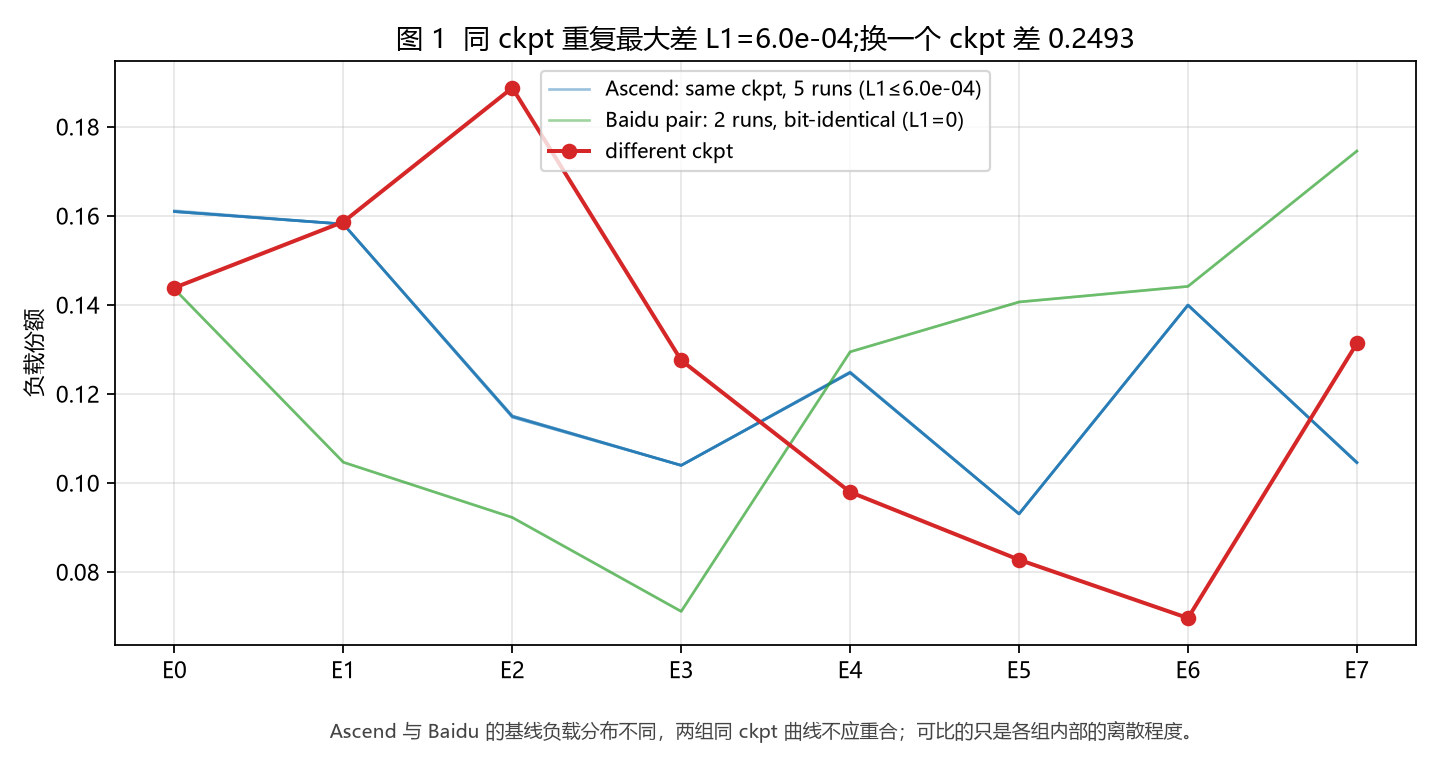
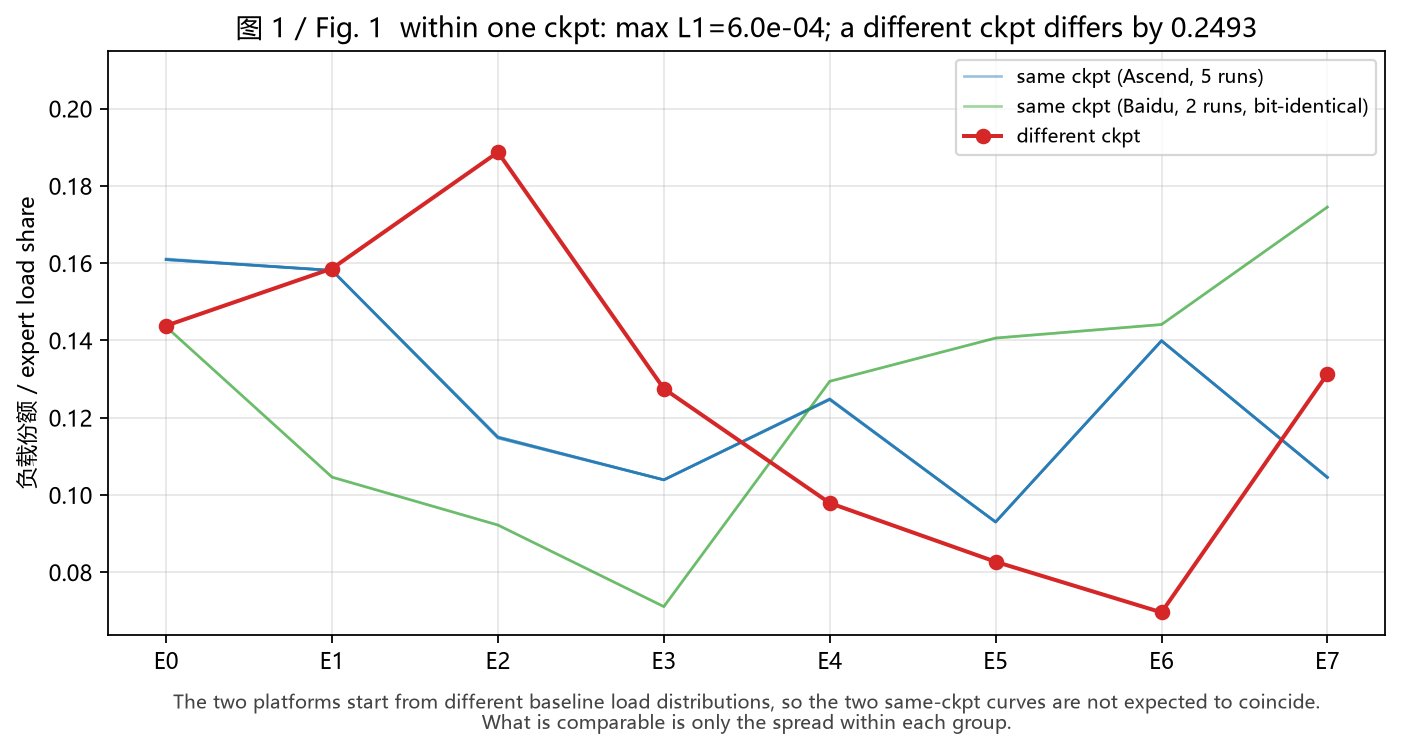
figures: unify legend placement, bilingual titles and axis labels
- legends: unified inside the axes, upper right, across all three figures.
  fig1's legend previously sat mid-axes and covered E1-E5, which is exactly the
  region where the same-ckpt runs are supposed to overlap. Its y-limit is raised
  to 0.215 so the legend no longer covers the E7 point (0.175).
- titles and axis labels are now bilingual (图 X / Fig. X, 负载份额 / expert load
  share); fig1's footnote is in English.
- fig1 legend text shortened, since the numbers are already in the title:
  same ckpt (Ascend, 5 runs) / same ckpt (Baidu, 2 runs, bit-identical) /
  different ckpt
- MANIFEST rebuilt (118 content hashes)

Figures are byte-reproducible from data_for_figures.json. No data or code logic
changed; make_figures.py only changes layout.

diff --git a/make_figures.py b/make_figures.py
@@ -35,19 +35,19 @@ def fig_rotation(data, outdir, plt):
                 label=k, linewidth=1.6)
     ax.set_xticks(x)
     ax.set_xticklabels(["E%d" % i for i in x])
-    ax.set_ylabel("负载份额")
+    ax.set_ylabel("负载份额 / expert load share")
     # 标题数字一律现算
     if d.get("step0") and d.get("s1"):
         dc = (_cv(d["s1"]) - _cv(d["step0"])) / _cv(d["step0"]) * 100
         dl = _l1(d["step0"], d["s1"])
-        ax.set_title("图 3  前 400 步：cv %+.0f%%，但负载分布改变 L1=%.2f" % (dc, dl))
+        ax.set_title("图 3 / Fig. 3  first 400 steps: cv %+.0f%%, but the load distribution moved by L1=%.2f" % (dc, dl))
     else:
-        ax.set_title("图 3  负载分布随训练改变")
+        ax.set_title("图 3 / Fig. 3  The load distribution changes over training")
     ax.legend(fontsize=9)
     ax.grid(alpha=0.3)
     fig.tight_layout()
     p = os.path.join(outdir, "fig3_rotation.png")
-    fig.savefig(p, dpi=160)
+    fig.savefig(p, dpi=160, bbox_inches="tight")
     plt.close(fig)
     return p
 
@@ -63,22 +63,22 @@ def fig_noise(data, outdir, plt):
             l1_same = max(l1_same, _l1(runs[i], runs[j]))
     l1_other = ""
     if d.get("other_ckpt") and runs:
-        l1_other = ";换一个 ckpt 差 %.4f" % _l1(runs[0], d["other_ckpt"])
+        l1_other = "; a different ckpt differs by %.4f" % _l1(runs[0], d["other_ckpt"])
     fig, ax = plt.subplots(figsize=(9, 4.8))
     x = list(range(8))
     for i, arr in enumerate(d.get("same_ckpt_runs", [])):
         ax.plot(x, arr, color="#1f77b4", alpha=0.45, linewidth=1.2,
-                label="Ascend: same ckpt, 5 runs (L1≤%.1e)" % l1_same if i == 0 else None)
+                label="same ckpt (Ascend, 5 runs)" if i == 0 else None)
     if d.get("baidu_same"):
         for i, arr in enumerate(d["baidu_same"]):
             ax.plot(x, arr, color="#2ca02c", alpha=0.45, linewidth=1.2,
-                    label="Baidu pair: 2 runs, bit-identical (L1=0)" if i == 0 else None)
+                    label="same ckpt (Baidu, 2 runs, bit-identical)" if i == 0 else None)
     if d.get("other_ckpt"):
         ax.plot(x, d["other_ckpt"], color="#d62728", marker="o", linewidth=1.8,
                 label="different ckpt")
     ax.set_xticks(x)
     ax.set_xticklabels(["E%d" % i for i in x])
-    ax.set_ylabel("负载份额")
+    ax.set_ylabel("负载份额 / expert load share")
     # 标题里的数字一律从数据现算，不硬编码
     runs = d.get("same_ckpt_runs", [])
     l1_same = 0.0
@@ -87,17 +87,20 @@ def fig_noise(data, outdir, plt):
             l1_same = max(l1_same, _l1(runs[i], runs[j]))
     l1_other = ""
     if d.get("other_ckpt") and runs:
-        l1_other = ";换一个 ckpt 差 %.4f" % _l1(runs[0], d["other_ckpt"])
-    ax.set_title("图 1  同 ckpt 重复最大差 L1=%.1e%s" % (l1_same, l1_other))
-    ax.legend(fontsize=9)
+        l1_other = "; a different ckpt differs by %.4f" % _l1(runs[0], d["other_ckpt"])
+    ax.set_title("图 1 / Fig. 1  within one ckpt: max L1=%.1e%s" % (l1_same, l1_other))
+    # 与 fig2 / fig3 统一：坐标轴内右上角
+    # 但 fig1 的 y 上限要留白，否则图例会压住 E7 那个点（绿线末端 0.175）
+    ax.set_ylim(top=0.215)
+    ax.legend(fontsize=8.5, loc="upper right")
     # 两平台基线不同，绿蓝两组本就不该重合 —— 必须写明，否则会被误读
-    ax.text(0.5, -0.16, "Ascend 与 Baidu 的基线负载分布不同，两组同 ckpt 曲线不应重合；"
-                        "可比的只是各组内部的离散程度。",
+    ax.text(0.5, -0.16, "The two platforms start from different baseline load distributions, so the two same-ckpt "
+                        "curves are not expected to coincide.\nWhat is comparable is only the spread within each group.",
             transform=ax.transAxes, ha="center", fontsize=8.5, color="#444")
     ax.grid(alpha=0.3)
     fig.tight_layout()
     p = os.path.join(outdir, "fig1_noise_scale.png")
-    fig.savefig(p, dpi=160)
+    fig.savefig(p, dpi=160, bbox_inches="tight")
     plt.close(fig)
     return p
 
@@ -121,8 +124,8 @@ def fig_pair(data, outdir, plt):
                 label="B1, before permutation undo")
     ax.set_xticks(x)
     ax.set_xticklabels(["E%d" % i for i in x])
-    ax.set_ylabel("负载份额")
-    ax.set_title("图 2  配对实验：组内两次几乎重合，组间明显分开")
+    ax.set_ylabel("负载份额 / expert load share")
+    ax.set_title("图 2 / Fig. 2  Paired run: the two repeats coincide, the two groups separate")
     if a1r and b1r:
         ax.text(0.5, -0.15,
                 "Solid: after undoing reorder_perm (L1(A,B)=0.1077).  "
@@ -132,7 +135,7 @@ def fig_pair(data, outdir, plt):
     ax.grid(alpha=0.3)
     fig.tight_layout()
     p = os.path.join(outdir, "fig2_pair.png")
-    fig.savefig(p, dpi=160)
+    fig.savefig(p, dpi=160, bbox_inches="tight")
     plt.close(fig)
     return p
 
